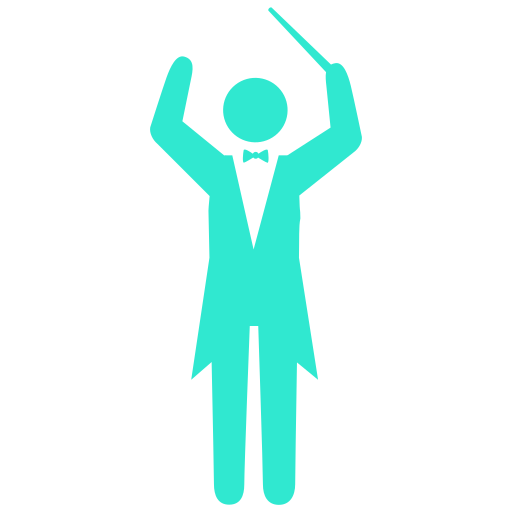
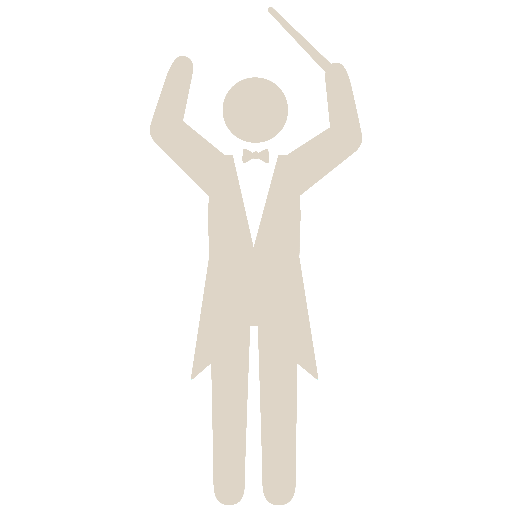
new colors

Changed region(s): [[0.2812, 0.0, 0.7188, 1.0]]

diff --git a/frontend/src/components/YouTubeCarousel.js b/frontend/src/components/YouTubeCarousel.js
@@ -1,0 +1,52 @@
+import React, { useState } from 'react';
+import { FontAwesomeIcon } from '@fortawesome/react-fontawesome';
+import { faArrowLeft, faArrowRight } from '@fortawesome/free-solid-svg-icons';
+
+const YouTubeCarousel = ({ videos }) => {
+    const [currentIndex, setCurrentIndex] = useState(0);
+
+    const handlePrev = () => {
+        setCurrentIndex((prevIndex) => (prevIndex - 1 + videos.length) % videos.length);
+    };
+
+    const handleNext = () => {
+        setCurrentIndex((prevIndex) => (prevIndex + 1) % videos.length);
+    };
+
+    if (!videos || videos.length === 0) {
+        return null;
+    }
+
+    const { id, title } = videos[currentIndex];
+
+    return (
+        <div className="flex jc-space-between ai-center yt-video-holder">
+            <FontAwesomeIcon
+                icon={faArrowLeft}
+                className="cursor-pointer color-primary font-xxl p-md"
+                onClick={handlePrev}
+            />
+            <div className="flex f-dir-column ai-center m-auto">
+                <p className="mt-md font-lg bold-text text-center color-primary">{title}</p>
+
+                <div className="position-relative yt-video">
+                    <iframe
+                        className="position-absolute top-0 left-0 wp-100 hp-100"
+                        src={`https://www.youtube.com/embed/${id}`}
+                        title={title}
+                        frameBorder="0"
+                        allow="accelerometer; autoplay; clipboard-write; encrypted-media; gyroscope; picture-in-picture"
+                        allowFullScreen
+                    ></iframe>
+                </div>
+            </div>
+            <FontAwesomeIcon
+                icon={faArrowRight}
+                className="cursor-pointer color-primary font-xxl p-md"
+                onClick={handleNext}
+            />
+        </div>
+    );
+};
+
+export default YouTubeCarousel;

diff --git a/frontend/src/styles/nav.scss b/frontend/src/styles/nav.scss
@@ -1,7 +1,7 @@
 nav {
     position:sticky;
     top:0;
-    background-color:#26b9a5ba;
+    background-color:#c2baadd6;
     z-index:10;
 
     ul {
@@ -43,6 +43,7 @@ nav {
     }
     
     @media screen and (max-width:map-get($sizes, "md")) {
+        background-color:#c2baadd6;
         height:auto;
         text-align: center;
         position:fixed;
@@ -50,6 +51,7 @@ nav {
         z-index:500;
         width: 100%!important;
         top:0;
+        display:none;
 
         ul {
             display:block!important;
@@ -58,6 +60,10 @@ nav {
         li {
             width:100%;
             justify-content: center;
+        }
+
+        a {
+            color:white;
         }
     }
 }
@@ -90,9 +96,33 @@ header {
 }
 
 .title-holder h1 {
-    color:map-get($colors, "secondary");
+    color:map-get($colors, "white");
     text-shadow: 1px 1px 5px map-get($colors, "dark-grey");
-    font-size: 60px;
+    font-size: 70px;
      -webkit-text-stroke: 0.04em map-get($colors, "primary");
     paint-order: stroke fill;
+
+    @media screen and (max-width:map-get($sizes, "lg")) {
+        font-size: 50px;
+    }
+
+    @media screen and (max-width:map-get($sizes, "md")) {
+        font-size: 30px;
+    }
+}
+
+.title-holder h2 {
+    color:map-get($colors, "secondary");
+    text-shadow: 1px 1px 5px map-get($colors, "dark-grey");
+    font-size: 50px;
+     -webkit-text-stroke: 0.04em map-get($colors, "primary");
+    paint-order: stroke fill;
+
+    @media screen and (max-width:map-get($sizes, "lg")) {
+        font-size: 35px;
+    }
+
+    @media screen and (max-width:map-get($sizes, "md")) {
+        font-size: 20px;
+    }
 }

diff --git a/frontend/src/pages/AboutMePage.js b/frontend/src/pages/AboutMePage.js
@@ -1,11 +1,18 @@
 import Contact from "../components/Contact";
 import Footer from "../components/Footer";
 import { FontAwesomeIcon } from "@fortawesome/react-fontawesome";
+import YouTubeCarousel from "../components/YouTubeCarousel";
 
 function AboutMePage() {
+    const videos = [
+        {id:"U4cVTbz-QHg", title:"How to Compose Music from Scratch"},
+        {id:"B7VFOznWgr8", title:"Composing Tutorial: How to Create a Fantasy Main Theme"},
+        {id:"f8eVG5fmEqc", title:"Orchestration Essentials: Woodwinds"},
+    ];
+
     return (
         <>
-            <div className="container-lg box-light-grey p-md">
+            <div className="container-lg box-white p-md">
                 <h1>About Me</h1>
                 <div className="p-sm">
                     <div className="me-img">
@@ -41,6 +48,10 @@ function AboutMePage() {
                 </p>
 
                 <h2>Some of my YouTube videos</h2>
+
+                <YouTubeCarousel
+                    videos={videos}
+                />
             </div>
 
             <div className="box-primary pt-md pb-xl text-center">

diff --git a/frontend/src/styles/variables.scss b/frontend/src/styles/variables.scss
@@ -7,13 +7,30 @@ $sizes:(
     "xxl":1400px
 );
 
+// $colors: (
+//     "secondary": #2bd1ba,
+//     "secondary-lighter": #30e8d0,
+//     "secondary-darker": #26b9a5,
+//     "primary": #0b3d4e,
+//     "primary-lighter": #10576e,
+//     "primary-darker": #092e3b,
+//     "light-grey": #f5f5f5,
+//     "mid-grey": #828282,
+//     "dark-grey": #424242,
+//     "black": #212121,
+//     "white": #ffffff,
+//     "success": #0f9c30,
+//     "error": #FF3D3D,
+//     "warning": #ffb300
+// );
+
 $colors: (
-    "secondary": #2bd1ba,
-    "secondary-lighter": #30e8d0,
-    "secondary-darker": #26b9a5,
-    "primary": #0b3d4e,
-    "primary-lighter": #10576e,
-    "primary-darker": #092e3b,
+    "secondary": #cdc5b7,
+    "secondary-lighter": #ded5c7,
+    "secondary-darker": #b0a99c,
+    "primary": #363a4c,
+    "primary-lighter": #474c63,
+    "primary-darker": #262a3c,
     "light-grey": #f5f5f5,
     "mid-grey": #828282,
     "dark-grey": #424242,

diff --git a/frontend/src/styles/settings.scss b/frontend/src/styles/settings.scss
@@ -171,7 +171,7 @@ p {
     }
 
     @media screen and (max-width: map-get($sizes, "sm")) {
-        width: map-get($sizes, "xs");
+        width: 100%;
     }
 
     @media screen and (max-width: map-get($sizes, "xs")) {
@@ -193,7 +193,7 @@ p {
     }
 
     @media screen and (max-width: map-get($sizes, "sm")) {
-        width: map-get($sizes, "xs");
+        width: 100%;
     }
 
     @media screen and (max-width: map-get($sizes, "xs")) {
@@ -211,7 +211,7 @@ p {
     }
 
     @media screen and (max-width: map-get($sizes, "sm")) {
-        width: map-get($sizes, "xs");
+        width: 100%;
     }
 
     @media screen and (max-width: map-get($sizes, "xs")) {

diff --git a/frontend/src/styles/style.scss b/frontend/src/styles/style.scss
@@ -14,6 +14,7 @@ body {
     min-height: 100vh;
     position:relative;
     padding-bottom: 100px!important;
+    background-color: map-get($colors, "light-grey");
 }
 
 h1,
@@ -563,4 +564,24 @@ footer {
     position:absolute;
     bottom:0;
     width:100%;
+}
+
+.yt-video-holder {
+    max-width:800px;
+    aspect-ratio: 16/9;
+    margin:10px auto;
+}
+
+.yt-video {
+    width:720px;
+    aspect-ratio: 16/9;
+    border:2px solid map-get($colors, "primary");
+
+    @media screen and (max-width:map-get($sizes, "lg")) {
+        width:480px;
+    }
+
+    @media screen and (max-width:map-get($sizes, "md")) {
+        width:360px;
+    }
 }

diff --git a/frontend/src/components/Nav.js b/frontend/src/components/Nav.js
@@ -21,7 +21,14 @@ function Nav() {
                     </ul>
                 </nav>
                 <div className="title-holder">
-                    <h1>Olivér Kovács, Composer and Music Educator</h1>
+                    <div className="text-center">
+                        <h1>
+                            Olivér Kovács
+                        </h1>
+                        <h2>
+                            Composer, Music Educator & Content Creator
+                        </h2>
+                    </div>
                 </div>
             </header>
 
